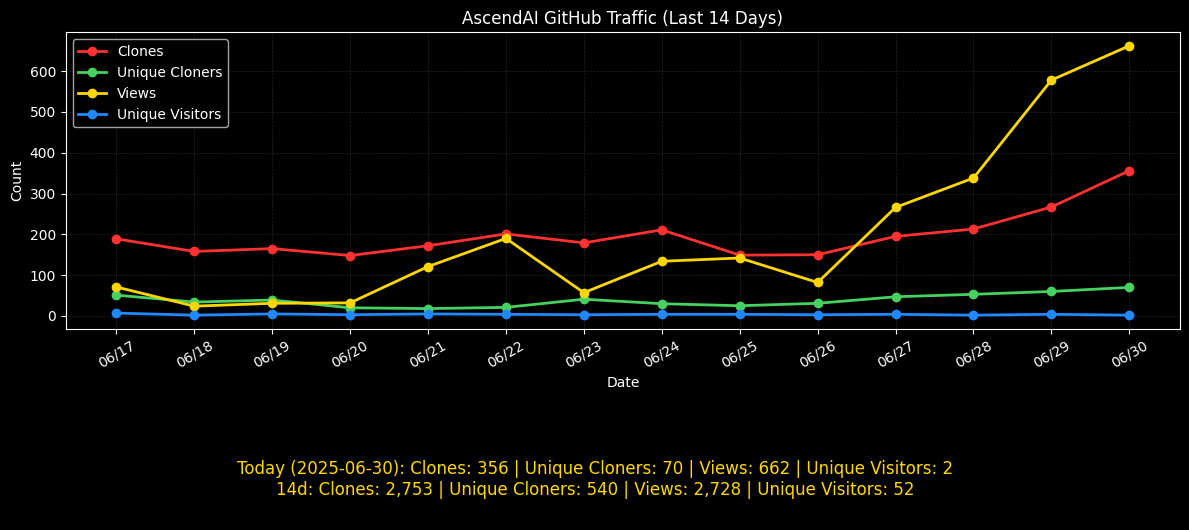
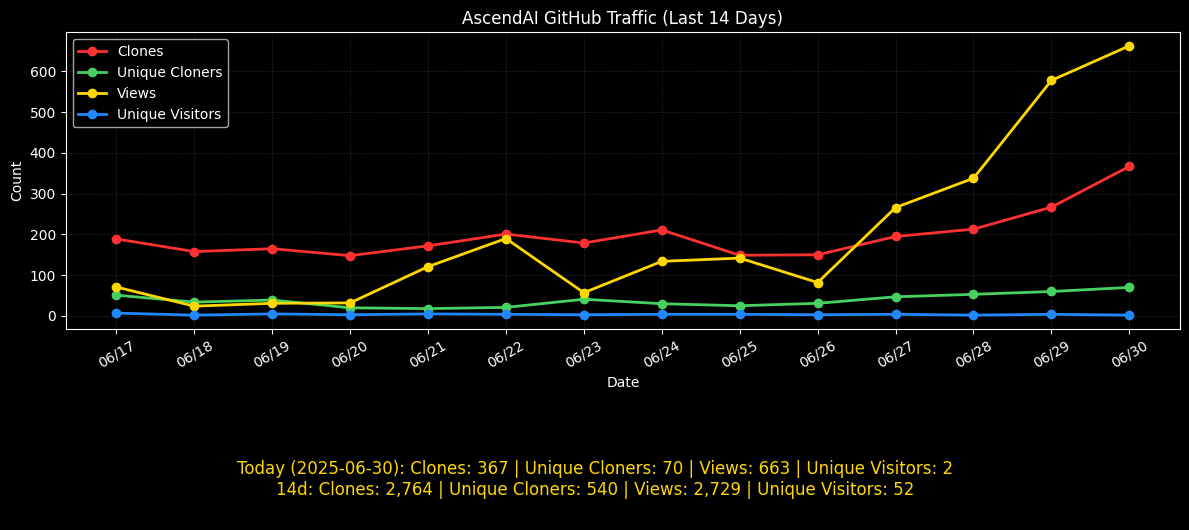
Update traffic data and graph

diff --git a/docs/graph/traffic_totals.md b/docs/graph/traffic_totals.md
@@ -1,6 +1,6 @@
 
 **GitHub Traffic Totals**
 
-- **Today (2025-06-30):** Clones: 356 | Unique Cloners: 70 | Views: 662 | Unique Visitors: 2
-- **Last 14 days:** Clones: 2,753 | Unique Cloners: 540 | Views: 2,728 | Unique Visitors: 52
+- **Today (2025-06-30):** Clones: 367 | Unique Cloners: 70 | Views: 663 | Unique Visitors: 2
+- **Last 14 days:** Clones: 2,764 | Unique Cloners: 540 | Views: 2,729 | Unique Visitors: 52
 - **Lifetime:** Clones: 2,608 | Unique Cloners: 527 | Views: 2,440 | Unique Visitors: 52
